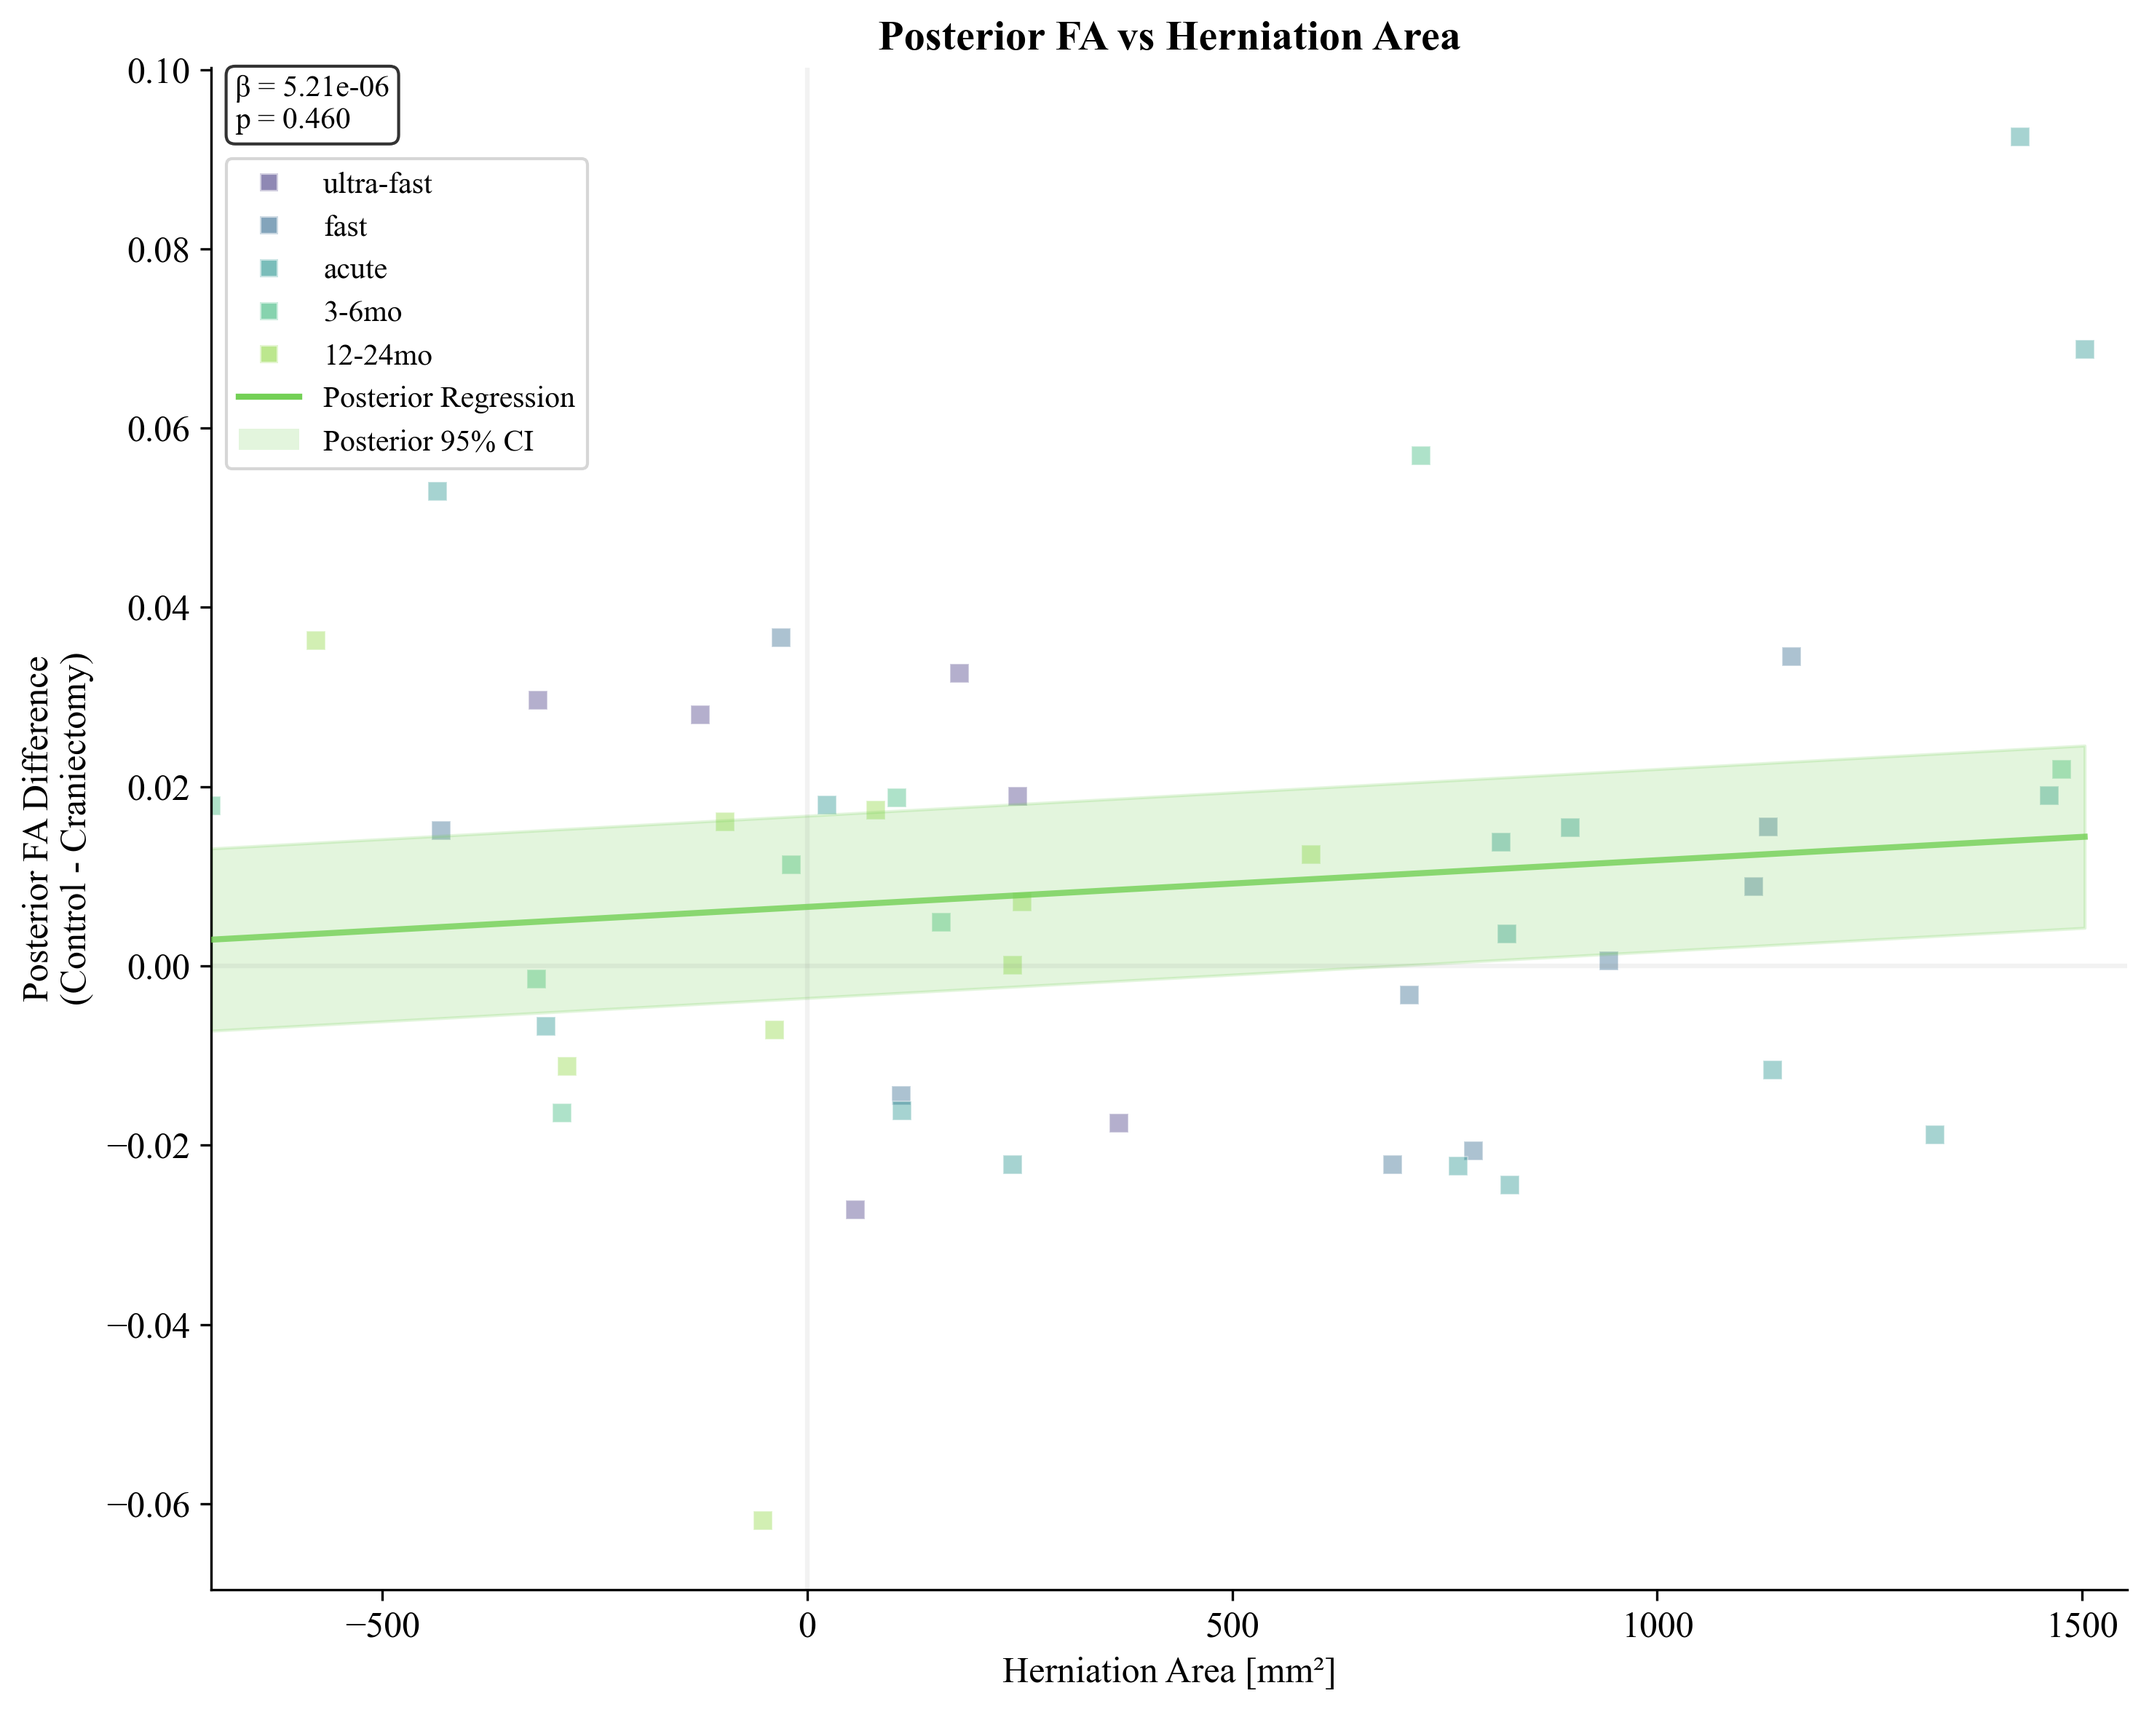
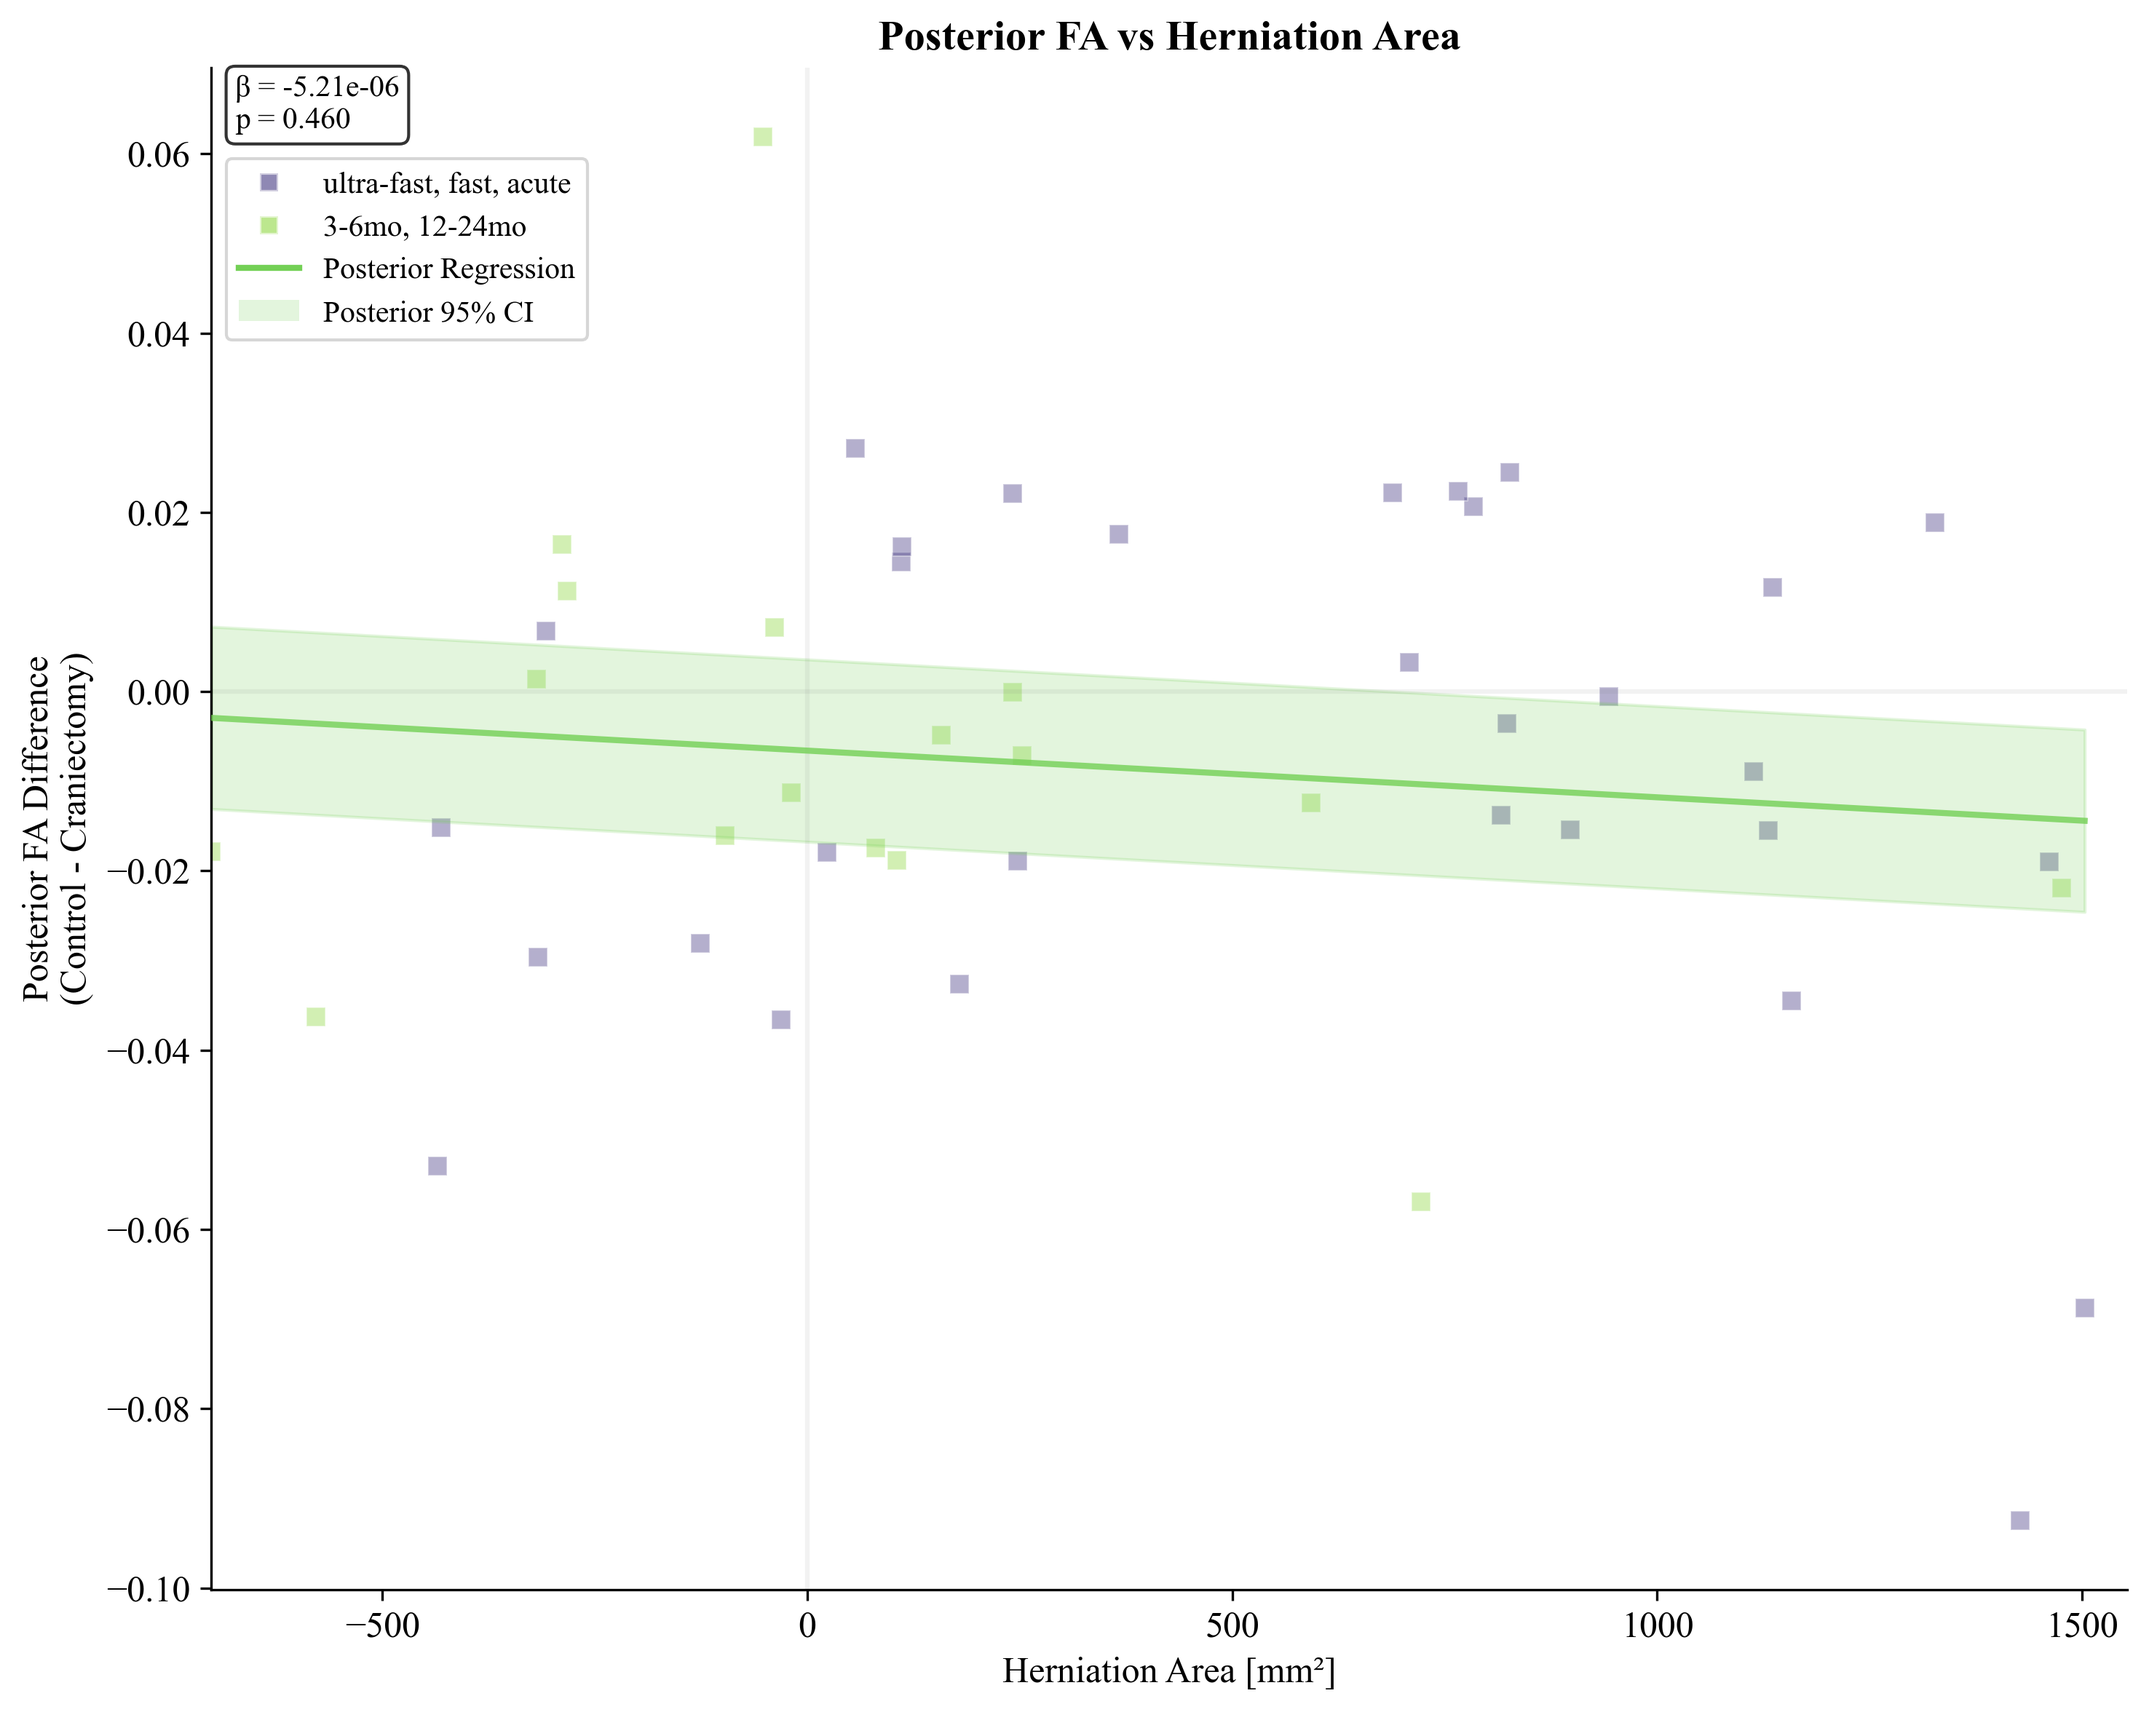
new plot colors

diff --git a/DTI_Processing_Scripts/dti_results_plotting_main.py b/DTI_Processing_Scripts/dti_results_plotting_main.py
@@ -1030,18 +1030,30 @@ def create_area_predicts_fa_plot(df, result4, result5, show_combined=True, timep
         for tp in timepoints:
             tp_data = anterior_data[anterior_data['timepoint'] == tp]
             if not tp_data.empty:
-                ax.scatter(tp_data['area_diff'], tp_data['fa_anterior_diff'], 
-                        marker='o', s=40, alpha=0.4, color=color_mapping[tp], 
+                # Direct color assignment based on position in timepoint list
+                if tp in timepoints[:3]:  # First 3 timepoints
+                    plot_color = palette[0]  # Purple (ultra-fast color)
+                else:  # Last 2 timepoints
+                    plot_color = palette[-1]  # Green (12-24mo color)
+                    
+                ax.scatter(tp_data['area_diff'], tp_data['fa_anterior_diff'],
+                        marker='o', s=40, alpha=0.4, color=plot_color,
                         edgecolors='white', linewidth=0.5)
         
         # Plot posterior data (squares)  
         # Plot posterior data (squares) - colored by timepoint
         posterior_data = df.dropna(subset=['fa_posterior_diff', 'area_diff'])
         for tp in timepoints:
-            tp_data = posterior_data[posterior_data['timepoint'] == tp]
+            tp_data = anterior_data[anterior_data['timepoint'] == tp]
             if not tp_data.empty:
-                ax.scatter(tp_data['area_diff'], tp_data['fa_posterior_diff'],
-                        marker='s', s=40, alpha=0.4, color=color_mapping[tp],
+                # Direct color assignment based on position in timepoint list
+                if tp in timepoints[:3]:  # First 3 timepoints
+                    plot_color = palette[0]  # Purple (ultra-fast color)
+                else:  # Last 2 timepoints
+                    plot_color = palette[-1]  # Green (12-24mo color)
+                    
+                ax.scatter(tp_data['area_diff'], tp_data['fa_anterior_diff'],
+                        marker='s', s=40, alpha=0.4, color=plot_color,
                         edgecolors='white', linewidth=0.5)
         
         # Get area range for regression lines
@@ -1118,9 +1130,10 @@ def create_area_predicts_fa_plot(df, result4, result5, show_combined=True, timep
         # Create legend for timepoints and regression lines
         from matplotlib.lines import Line2D
         legend_elements = [
-            # Timepoint legend entries
-            Line2D([0], [0], marker='o', color='w', markerfacecolor=color_mapping[tp], 
-                markersize=6, alpha=0.6, label=tp) for tp in timepoints
+            Line2D([0], [0], marker='s', color='w', markerfacecolor=palette[0], 
+                markersize=6, alpha=0.6, label='ultra-fast, fast, acute'),
+            Line2D([0], [0], marker='s', color='w', markerfacecolor=palette[-1], 
+                markersize=6, alpha=0.6, label='3-6mo, 12-24mo')
         ] + [
             # Regression line legend entries
             Line2D([0], [0], color='#440154', linewidth=1.5, label='Anterior Regression'),
@@ -1143,8 +1156,14 @@ def create_area_predicts_fa_plot(df, result4, result5, show_combined=True, timep
         for tp in timepoints:
             tp_data = anterior_data[anterior_data['timepoint'] == tp]
             if not tp_data.empty:
-                ax1.scatter(tp_data['area_diff'], tp_data['fa_anterior_diff'], 
-                        marker='o', s=40, alpha=0.4, color=color_mapping[tp], 
+                # Direct color assignment based on position in timepoint list
+                if tp in timepoints[:3]:  # First 3 timepoints
+                    plot_color = palette[0]  # Purple (ultra-fast color)
+                else:  # Last 2 timepoints
+                    plot_color = palette[-1]  # Green (12-24mo color)
+                    
+                ax1.scatter(tp_data['area_diff'], tp_data['fa_anterior_diff'],
+                        marker='o', s=40, alpha=0.4, color=plot_color,
                         edgecolors='white', linewidth=0.5)
         
         # Get area range for regression lines
@@ -1190,8 +1209,10 @@ def create_area_predicts_fa_plot(df, result4, result5, show_combined=True, timep
         # Create legend for timepoints and regression line
         from matplotlib.lines import Line2D
         legend_elements = [
-            Line2D([0], [0], marker='o', color='w', markerfacecolor=color_mapping[tp], 
-                markersize=6, alpha=0.6, label=tp) for tp in timepoints
+            Line2D([0], [0], marker='o', color='w', markerfacecolor=palette[0], 
+                markersize=6, alpha=0.6, label='ultra-fast, fast, acute'),
+            Line2D([0], [0], marker='o', color='w', markerfacecolor=palette[-1], 
+                markersize=6, alpha=0.6, label='3-6mo, 12-24mo')
         ] + [
             Line2D([0], [0], color='#440154', linewidth=2, label='Anterior Regression'),
             plt.Rectangle((0,0),1,1, facecolor='#440154', alpha=0.2, label='Anterior 95% CI')
@@ -1214,8 +1235,13 @@ def create_area_predicts_fa_plot(df, result4, result5, show_combined=True, timep
         for tp in timepoints:
             tp_data = posterior_data[posterior_data['timepoint'] == tp]
             if not tp_data.empty:
+                if tp in timepoints[:3]:
+                    plot_color = palette[0]
+                else:
+                    plot_color = palette[-1]
+                    
                 ax2.scatter(tp_data['area_diff'], tp_data['fa_posterior_diff'],
-                        marker='s', s=40, alpha=0.4, color=color_mapping[tp],
+                        marker='s', s=40, alpha=0.4, color=plot_color,
                         edgecolors='white', linewidth=0.5)
         
         if result5 is not None:
@@ -1255,8 +1281,10 @@ def create_area_predicts_fa_plot(df, result4, result5, show_combined=True, timep
         
         # Create legend for timepoints and regression line
         legend_elements = [
-            Line2D([0], [0], marker='s', color='w', markerfacecolor=color_mapping[tp], 
-                markersize=6, alpha=0.6, label=tp) for tp in timepoints
+            Line2D([0], [0], marker='s', color='w', markerfacecolor=palette[0], 
+                markersize=6, alpha=0.6, label='ultra-fast, fast, acute'),
+            Line2D([0], [0], marker='s', color='w', markerfacecolor=palette[-1], 
+                markersize=6, alpha=0.6, label='3-6mo, 12-24mo')
         ] + [
             Line2D([0], [0], color='#73D055', linewidth=2, label='Posterior Regression'),
             plt.Rectangle((0,0),1,1, facecolor='#73D055', alpha=0.2, label='Posterior 95% CI')
@@ -3876,17 +3904,17 @@ if __name__ == '__main__':
 
 
     
-    fig1, axes1 = create_fa_area_correlation_plot(wm_fa_hern_combi, show_timepoints=True)
-    fig2, axes2 = create_fa_area_correlation_plot(wm_fa_hern_combi, show_timepoints=False)
-    sys.exit()
-    # # Model results for prediction plot
-    # model_results = {
-    #     'intercept': 217.92,
-    #     'fa_anterior_coef': 4747.88
-    # }
+    # fig1, axes1 = create_fa_area_correlation_plot(wm_fa_hern_combi, show_timepoints=True)
+    # fig2, axes2 = create_fa_area_correlation_plot(wm_fa_hern_combi, show_timepoints=False)
+    # sys.exit()
+    # Model results for prediction plot
+    model_results = {
+        'intercept': 217.92,
+        'fa_anterior_coef': 4747.88
+    }
     # fig3, ax3 = create_fa_area_model_visualization(wm_fa_hern_combi, model_results)
 
-
+    # sys.exit()
     ####################
     # DOES HERNIATION CAUSE FA_DIFF? 
     # Model 4: Area predicts FA anterior (primary)
@@ -3946,8 +3974,8 @@ if __name__ == '__main__':
     # print(result6.params)
 
     # Usage example:
-    # create_area_predicts_fa_plot(wm_fa_hern_combi, result4, result5, show_combined=True)
-    # create_area_predicts_fa_plot(wm_fa_hern_combi, result4, result5, show_combined=False)
+    create_area_predicts_fa_plot(wm_fa_hern_combi, result4, result5, show_combined=True)
+    create_area_predicts_fa_plot(wm_fa_hern_combi, result4, result5, show_combined=False)
 
     # sys.exit()
 
